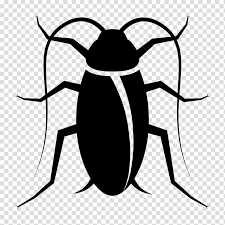
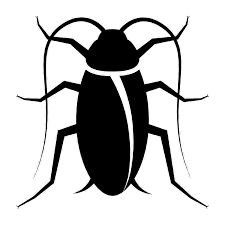
Wed, Mar 18, 2026, 9:31 AM -07:00

diff --git a/insect.html b/insect.html
@@ -18,7 +18,7 @@
                 <li>
                     <button class="choose-insect-btn">
                         <p>Fly</p>
-                        <img src="images/fly.webp" alt="Fly">
+                        <img src="images/fly.png" alt="Fly">
                     </button>
                 </li>
                 <li>
